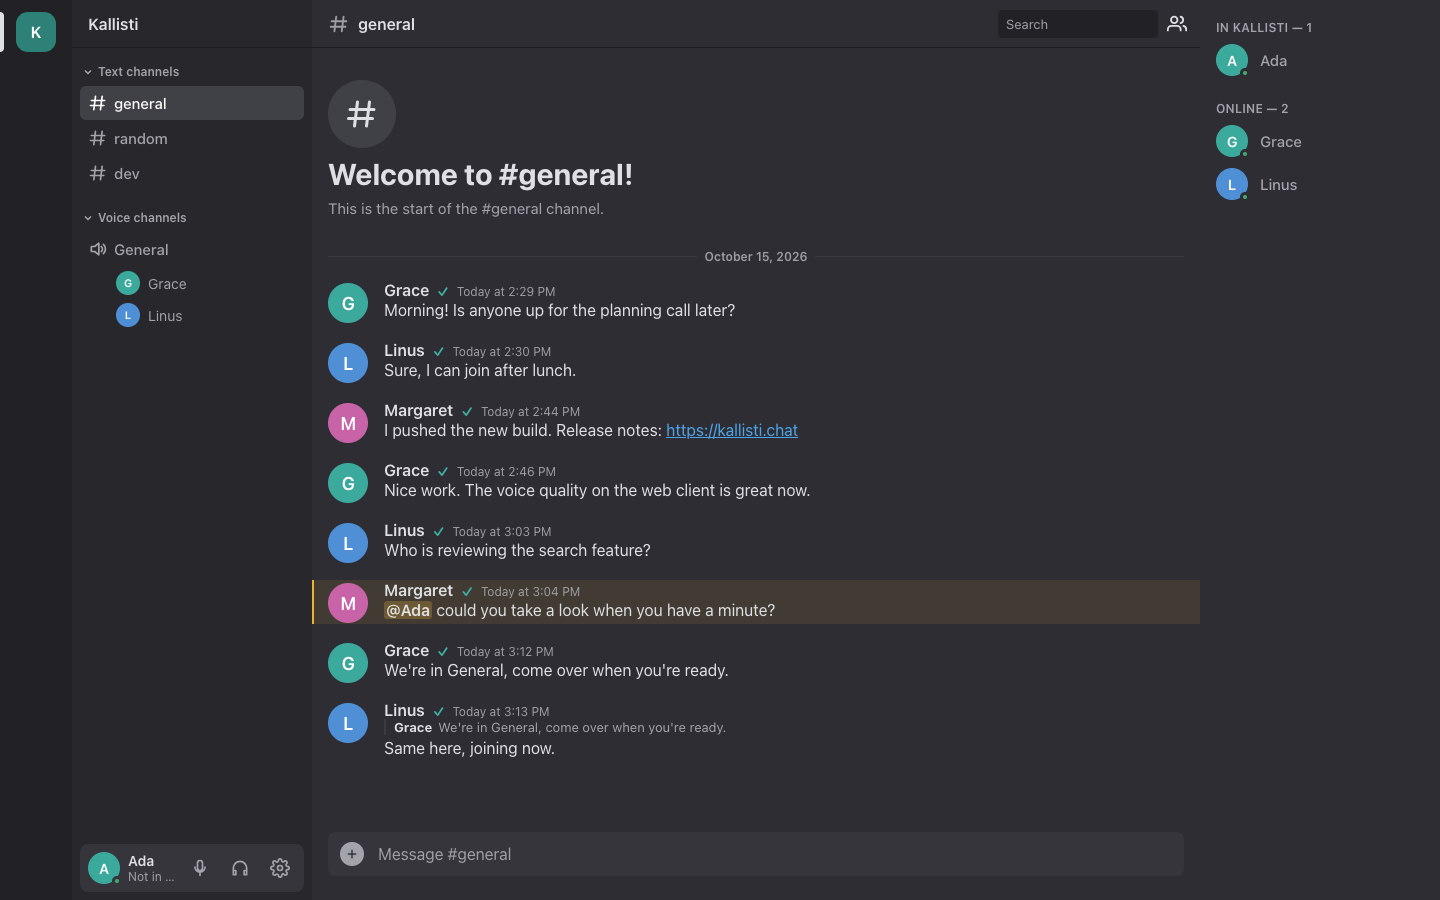
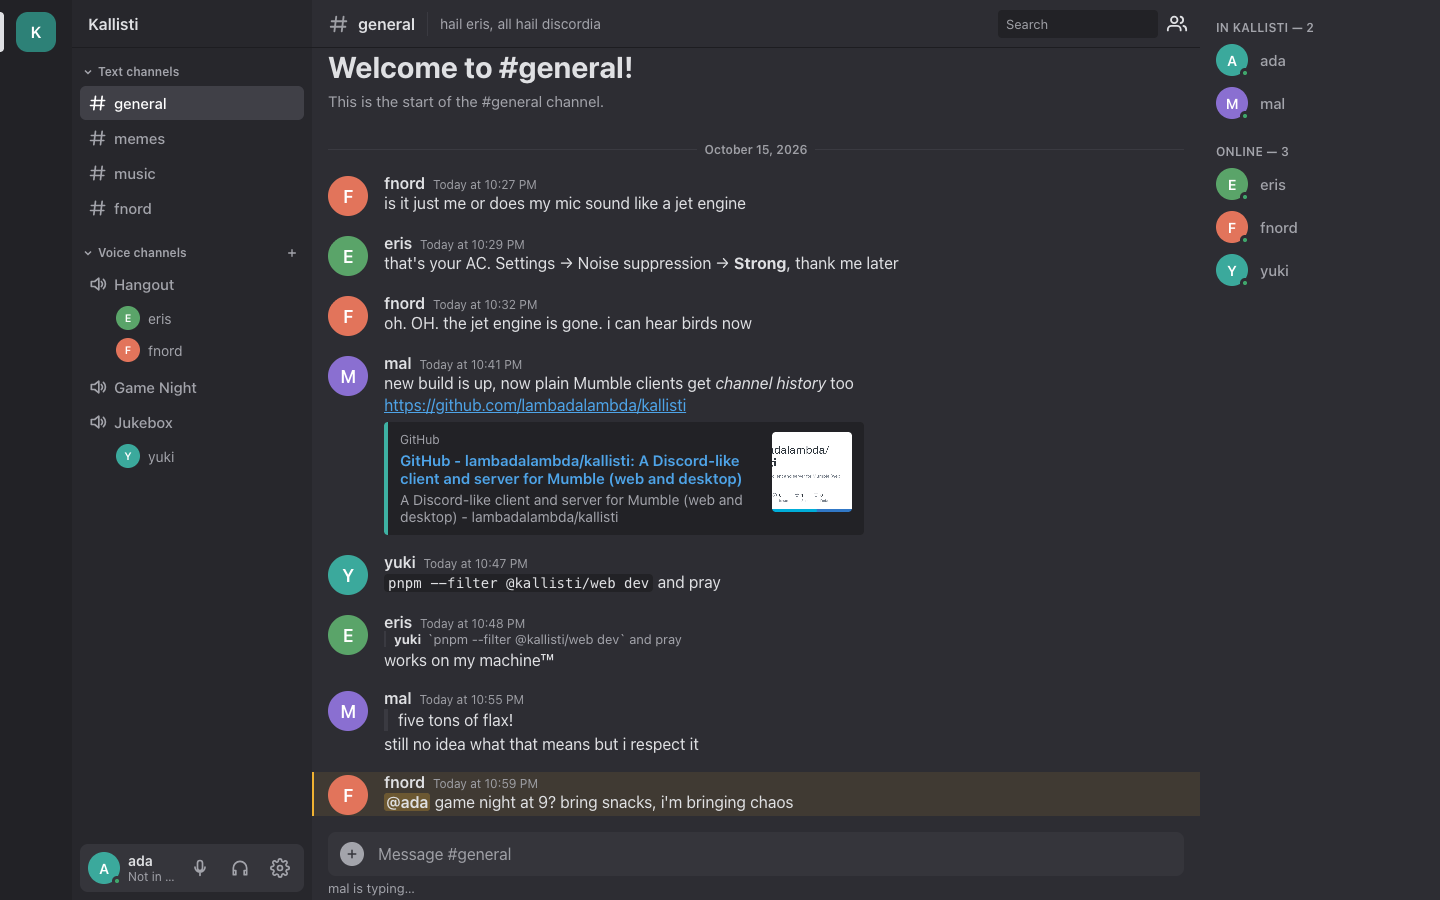
docs: a friendlier screenshot

diff --git a/README.md b/README.md
@@ -3,7 +3,7 @@
 Voice and text chat on top of Mumble, with a Discord-like interface. Web first.
 https://kallisti.chat
 
-![Kallisti in the browser: text channels, voice channels with their users, a chat with a mention and a reply, and the member list](docs/screenshot.png)
+![Kallisti in the browser: a chat about noise suppression with a link preview, a code snippet, a reply and a mention, people in voice channels, and someone typing](docs/screenshot.png)
 
 - `packages/protocol`: Mumble protocol (framing, protobuf codec, state, voice packets)
 - `apps/web`: Svelte web client (chat, voice, settings)
